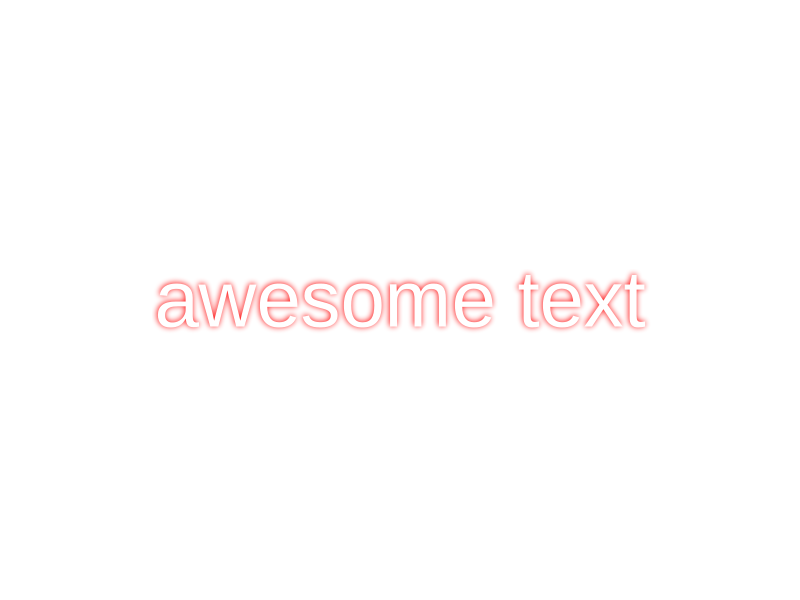
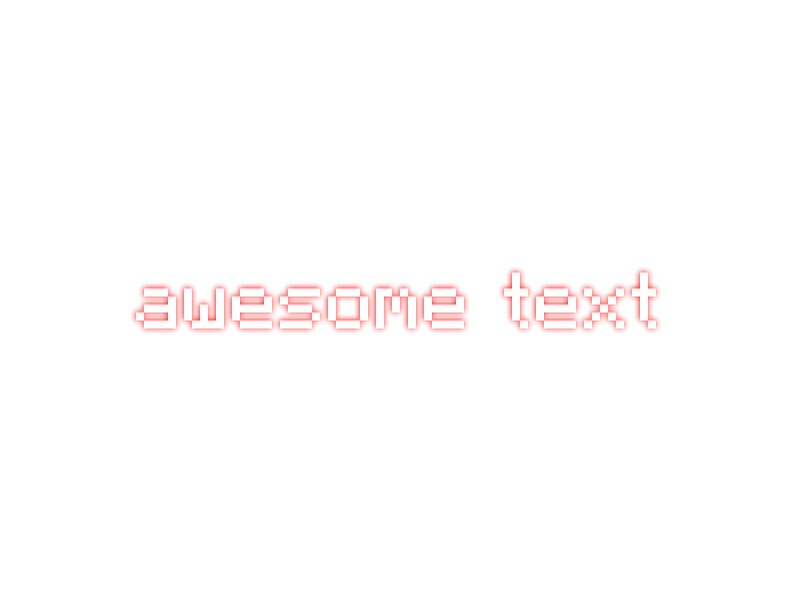
Migrated to .js & cherry-box

Changed region(s): [[0.1562, 0.45, 0.8438, 0.57]]

diff --git a/lib/generator/badge.js b/lib/generator/badge.js
@@ -2,16 +2,17 @@
 // WARNING! DO NOT TEST HYPIXEL API SINCE THERE IS NO API KEY
 
 import Canvas from 'canvas'; 
-import textBox from '../textBox.mjs';
-import drawSkin from '../hypixel/createSkin.mjs';
-import { getNickname } from '../hypixel/userProfile.mjs';
-import profile from '../hypixel/playerData.mjs';
+import { textBox } from 'cherry-box';
+import drawSkin from '../hypixel/createSkin.js';
+import { getNickname } from '../hypixel/userProfile.js';
+import profile from '../hypixel/playerData.js';
 import fs from 'fs';
-import mcColors from '../colors/minecraft.mjs';
+import mcColors from '../colors/minecraft.js';
 
 // Register Minecraft Font
 Canvas.registerFont('./assets/fonts/Minecraftia.otf', { family: 'Minecraft' })
 Canvas.registerFont('./assets/fonts/MinecraftiaBold.otf', { family: 'MinecraftBold' })
+const font = 'Minecraft';
 
 /**
  * 
@@ -37,7 +38,7 @@ async function generateBadge(username) {
     }
     
     // Rank with nickname
-    new textBox(269, 95, 250, 39, coloredUsername, 80, 'Minecraft', ['bottom', 'left']).draw(ctx);
+    textBox(ctx, 269, 95, 250, 39, coloredUsername, 80, ['bottom', 'left']);
     
     // Render skin
     let mcSkin = await drawSkin(9, username);
@@ -53,27 +54,27 @@ async function generateBadge(username) {
     ctx.fillRect(265, 174, (badgePercentage * 207), 24);
     
     // Labels for the XP and achievements
-    new textBox(272, 147, 250, 20, [{
+    textBox(ctx, 272, 147, 250, 20, [{
         text: `${Math.floor(userProfile.level)} LVL (${(xpPercentage*100).toFixed(2)}% XP)`,
         color: '#ffffff',
+        font: 'MinecraftBold',
         shadow: {
             color: '#555555',
-            x: 10,
-            y: 10,
+            offset: [10, 10],
             blur: 5
         }
-    }], 20, 'MinecraftBold', ['middle', 'left']).draw(ctx);
+    }], 20, ['middle', 'left']);
 
-    new textBox(272, 174, 250, 20, [{
+    textBox(ctx, 272, 174, 250, 20, [{
         text: `${userProfile.badges.length} Badges (${(badgePercentage*100).toFixed(2)}%)`,
         color: '#ffffff',
+        font: 'MinecraftBold',
         shadow: {
             color: '#555555',
-            x: 10,
-            y: 10,
+            offset: [10, 10],
             blur: 5
         }
-    }], 20, 'MinecraftBold', ['middle', 'left']).draw(ctx);
+    }], 20, ['middle', 'left']);
     
     // Get online status
     const statusBadge = new Canvas.Image();
@@ -99,38 +100,38 @@ async function generateBadge(username) {
     statusBadge.src = fs.readFileSync(`./assets/images/status/${status}.png`);
     ctx.drawImage(statusBadge, 217, 200, 37, 37);
 
-    new textBox(570, 77, 192, 27, [{
+    textBox(ctx, 570, 77, 192, 27, [{
             text: `[${userProfile.guild.tag}] ${userProfile.guild.name}`,
             color: mcColors[userProfile.guild.tagColor],
+            font,
             shadow: {
                 color: mcColors.shadow[userProfile.guild.tagColor],
-                x: 10,
-                y: 10,
+                offset: [10, 10],
                 blur: 0
             }
-    }], 20, 'Minecraft', ['middle', 'center']).draw(ctx);
+    }], 20, ['middle', 'center']);
     
-    new textBox(563, 155, 192, 27, [{
+    textBox(ctx, 563, 155, 192, 27, [{
         text: userProfile.friends.length,
         color: mcColors.aqua,
+        font,
         shadow: {
             color: mcColors.shadow.aqua,
-            x: 10,
-            y: 10,
+            offset: [10, 10],
             blur: 0
         }
-    }], 40, 'Minecraft', ['middle', 'center']).draw(ctx);
+    }], 40, ['middle', 'center']);
     
-    new textBox(563, 240, 192, 27, [{
+    textBox(ctx, 563, 240, 192, 27, [{
         text: userProfile.karma,
         color: mcColors.light_purple,
+        font,
         shadow: {
             color: mcColors.shadow.light_purple,
-            x: 10,
-            y: 10,
+            offset: [10, 10],
             blur: 0
         }
-    }], 30, 'Minecraft', ['middle', 'center']).draw(ctx);
+    }], 30, ['middle', 'center']);
 
     // Display badges
     let allBadges = [

diff --git a/lib/hypixel/userProfile.js b/lib/hypixel/userProfile.js
@@ -1,6 +1,6 @@
 import fetch from 'node-fetch';
-import minecraftColors from '../colors/minecraft.mjs';
-import { getRank } from './playerData.mjs';
+import minecraftColors from '../colors/minecraft.js';
+import { getRank } from './playerData.js';
 
 // Import api key from .env
 import dotenv from 'dotenv';
@@ -103,44 +103,45 @@ async function getNickname(username) {
         let plusCount = formattedRank.split("+").length-1;
         
         // Create textObject
+        const font = 'Minecraft';
         let textObject = [
             {
                 text: formattedRank.substring(0, splitPlace),
                 color: minecraftColors[color],
+                font,
                 shadow: {
                     color: minecraftColors.shadow[color],
-                    x: 10,
-                    y: 10,
+                    offset: [10, 10],
                     blur: 0
                 }
             },
             {
                 text: formattedRank.substring(splitPlace, splitPlace+plusCount),
                 color: minecraftColors[`${plusColor}`],
+                font,
                 shadow: {
                     color: minecraftColors.shadow[plusColor],
-                    x: 10,
-                    y: 10,
+                    offset: [10, 10],
                     blur: 0
                 }
             },
             {
                 text: formattedRank.substring(splitPlace+plusCount) + " ",
                 color: minecraftColors[color],
+                font,
                 shadow: {
                     color: minecraftColors.shadow[color],
-                    x: 10,
-                    y: 10,
+                    offset: [10, 10],
                     blur: 0
                 }
             },
             {
                 text: data.player.displayname,
                 color: minecraftColors[color],
+                font,
                 shadow: {
                     color: minecraftColors.shadow[color],
-                    x: 10,
-                    y: 10,
+                    offset: [10, 10],
                     blur: 0
                 }
             }

diff --git a/index.js b/index.js
@@ -5,14 +5,14 @@ dotenv.config();
 // Import the modules
 import { Client, Intents, Collection }  from 'discord.js';
 import fs from 'fs';
-import log from './lib/logging.mjs';
+import log from './lib/logging.js';
 
 // Create a new client
 const client = new Client({ intents: [Intents.FLAGS.GUILDS] });
 
 // Set up commands
 client.commands = new Collection();
-const commandFiles = fs.readdirSync('./commands').filter(file => file.endsWith('.mjs'));
+const commandFiles = fs.readdirSync('./commands').filter(file => file.endsWith('.js'));
 
 // Command handler from https://discordjs.guide/creating-your-bot/command-handling.html
 for (const file of commandFiles) {
@@ -59,7 +59,6 @@ client.on('interactionCreate', async interaction => {
     // Get the command name
 	const command = client.commands.get(interaction.commandName);
 	if (!command) return;
-
     // Execute the command
 	try {
 		await command.execute(interaction);

diff --git a/tests.js b/tests.js
@@ -1,24 +1,23 @@
 // Warning: Do not test Hypixel API calls since you don't have an API key
 
 import Canvas from "canvas";
-import textBox from "./lib/textBox.mjs";
+import { textBox } from "cherry-box";
 import fs from "fs";
-import generateBadge from "./lib/generator/badge.mjs";
 
 let canvas = Canvas.createCanvas(800, 600);
 let ctx = canvas.getContext('2d');
 
 // Testing textBox
-new textBox(0, 0, 800, 600, [{
+textBox(ctx, 0, 0, 800, 600, [{
     text: 'awesome text',
     color: '#fff',
+    font: 'Minecraft',
     shadow: {
         color: '#f00',
-        x: 0,
-        y: 0,
+        offset: [0, 0],
         blur: 5
     }
-}], 80, 'Arial', ['middle', 'center']).draw(ctx);
+}], 80, ['middle', 'center']);
 
 // Output the image to a file
 const out = fs.createWriteStream('./output.png');

diff --git a/lib/hypixel/createSkin.js b/lib/hypixel/createSkin.js
@@ -1,5 +1,8 @@
 import Canvas from 'canvas';
-import { getSkin } from './userProfile.mjs';
+import { getSkin } from './userProfile.js';
+
+// Ratio between the diagonals = 1/Math.sqrt(3);
+const ratio = 0.5773502691896258;
 
 /**
  * 
@@ -12,10 +15,6 @@ async function createSkin(size, username) {
     // Create a new canvas
     let canvas = new Canvas.createCanvas(16*size, 32*(Math.sqrt(3)/3)*size);
     let ctx = canvas.getContext('2d');
-    
-    // Ratio between the diagonals = 1/Math.sqrt(3);
-    const ratio = 0.5773502691896258;
-    
     // Disable smoothing
     ctx.patternQuality = 'fast';
     

diff --git a/deploy-commands.js b/deploy-commands.js
@@ -6,13 +6,13 @@ dotenv.config();
 import { SlashCommandBuilder } from '@discordjs/builders';
 import { REST } from '@discordjs/rest';
 import { Routes } from 'discord-api-types/v9';
-import log from './lib/logging.mjs';
+import log from './lib/logging.js';
 import fs from 'fs';
 
 const guildId = '740228240286679101';
 
 const commands = [];
-const commandFiles = fs.readdirSync('./commands').filter(file => file.endsWith('.mjs'));
+const commandFiles = fs.readdirSync('./commands').filter(file => file.endsWith('.js'));
 
 for (const file of commandFiles) {
 

diff --git a/commands/hystats.js b/commands/hystats.js
@@ -1,6 +1,6 @@
 import { SlashCommandBuilder } from '@discordjs/builders';
-import generateBadge from '../lib/generator/badge.mjs';
-import getArgs from '../lib/getArgs.mjs';
+import generateBadge from '../lib/generator/badge.js';
+import getArgs from '../lib/getArgs.js';
 import fetch from 'node-fetch';
 
 const data = new SlashCommandBuilder()
@@ -28,7 +28,7 @@ const data = new SlashCommandBuilder()
 export default {
 	data,
 	async execute(interaction) {
-		
+
 		// Defer reply
 		await interaction.deferReply();
 		const args = getArgs(interaction);

diff --git a/lib/hypixel/playerData.js b/lib/hypixel/playerData.js
@@ -1,5 +1,5 @@
 import fetch from 'node-fetch';
-import getBadges from './getBadges.mjs';
+import getBadges from './getBadges.js';
 
 // Import api key from .env
 import dotenv from 'dotenv';
